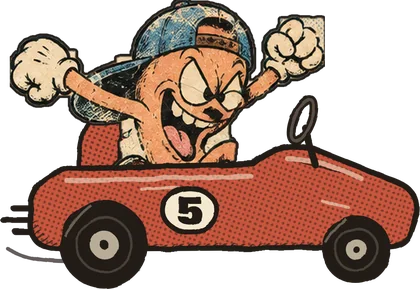
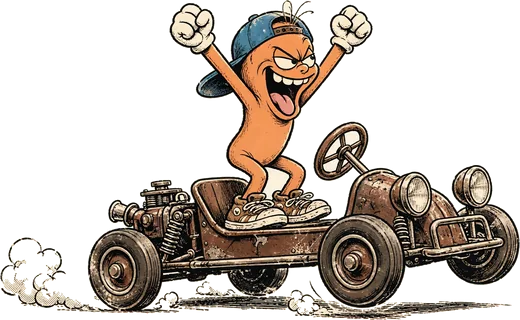
Use new hand-inked kart art for all five drivers
Claude-Session: https://claude.ai/code/session_01G79NAC6RiZUqHQqi2hMpF2

diff --git a/thumbrally/index.html b/thumbrally/index.html
@@ -15,7 +15,7 @@
 <link rel="preconnect" href="https://fonts.googleapis.com">
 <link rel="preconnect" href="https://fonts.gstatic.com" crossorigin>
 <link rel="stylesheet" href="https://fonts.googleapis.com/css2?family=Bowlby+One&family=Shantell+Sans:wght@400;600;800&display=swap">
-<link rel="preload" as="image" href="img/kart-thumbs.webp">
+<link rel="preload" as="image" href="img/kart-thumbs.webp"><link rel="preload" as="image" href="img/kart-pops.webp"><link rel="preload" as="image" href="img/kart-birdie.webp"><link rel="preload" as="image" href="img/kart-sir.webp"><link rel="preload" as="image" href="img/kart-lil.webp">
 <style>
 :root{
   --paper:#EEDBB8;--paper2:#E4CB9E;--card:#FBF1DD;--ink:#211C18;--ink2:#6A5B48;
@@ -97,7 +97,7 @@ svg.defs{position:absolute;width:0;height:0}
 .lane .nm{position:absolute;right:22px;top:50%;transform:translateY(-50%);font-size:10px;font-weight:800;color:var(--ink2);text-transform:uppercase;white-space:nowrap;opacity:.8}
 .lane.me{background:rgba(217,169,58,.22)}
 .lane.me .nm{color:var(--ink);opacity:1}
-.kart{position:absolute;left:2px;bottom:1px;height:calc(var(--laneH,46px) - 2px);will-change:transform;z-index:2}
+.kart{position:absolute;left:2px;bottom:-1px;height:calc(var(--laneH,46px) + 8px);will-change:transform;z-index:2}
 .kart img{height:100%;width:auto;transform-origin:30% 90%}
 .kart.run img{animation:bump .14s ease-in-out infinite alternate}
 .kart .puff{position:absolute;left:-6px;bottom:2px;width:14px;height:14px;border-radius:50%;background:#E8D4AE;border:2px solid var(--ink);opacity:0}
@@ -136,7 +136,7 @@ svg.defs{position:absolute;width:0;height:0}
 #res.show{transform:none}
 #res>*{flex:none}
 .react{display:flex;align-items:center;gap:6px;min-height:130px}
-.react img{width:122px;flex:none;transform:rotate(-3deg)}
+.react img{width:150px;flex:none;transform:rotate(-3deg)}
 .react.shake img{animation:wob .5s ease-in-out 2}
 @keyframes wob{25%{transform:rotate(-8deg)}75%{transform:rotate(4deg)}}
 .say{position:relative;flex:1;padding:16px 16px;font-weight:800;font-size:14px;text-transform:uppercase;line-height:1.2;text-align:center;background:var(--card);border-radius:50%/42%}
@@ -238,7 +238,7 @@ const GANG={
 };
 const IDS=Object.keys(GANG);
 if(!GANG[S.driver])S.driver='thumbs';
-const kartSrc=id=>`img/kart-${id}.webp`, faceSrc=id=>`img/face-${id}.webp`;
+const kartSrc=id=>`img/kart-${id}.webp`, faceSrc=id=>`img/big-${id}.webp`;
 const BOT={thumbs:{m:1.02,noise:.35},pops:{m:.94,noise:.12},birdie:{m:1.0,noise:.5},sir:{m:.86,noise:.22},lil:{m:1.1,noise:.65}};
 const TALK={
   thumbs:{win:['FIRST. obviously. did everyone see that?','they should name a highway after me'],close:['so close i can taste the trophy'],lose:['the helmet was too tight. that is the only reason.'],pb:['NEW PERSONAL BEST. frame it.'],beat:['you got beat by a THUMB. on purpose.']},
@@ -288,11 +288,11 @@ function startRace(mode){
     R.rows.forEach(r=>r.el.classList.add('run'));setTimeout(()=>c.classList.add('hidden'),450);requestAnimationFrame(loop)}},700);
 }
 function pickPractice(){let pool=PASS.map((t,i)=>i).filter(i=>!S.recent.includes(i));if(!pool.length)pool=PASS.map((t,i)=>i);const i=pick(pool);S.recent=[i,...S.recent].slice(0,15);save();return PASS[i]}
-let trackW=300,kartW=66;
+let trackFull=300;
 function layoutTrack(){const t=$('#track'),w=t.clientWidth;
   const vh=(window.visualViewport?visualViewport.height:innerHeight);const laneH=Math.max(34,Math.min(48,Math.floor((vh-250)/5)));
-  t.style.setProperty('--laneH',laneH+'px');kartW=Math.round((laneH-2)*1.52);if(w>0)trackW=w-kartW-18;place()}
-function place(){if(!R)return;const T=R.text.length;R.rows.forEach((r,k)=>{const f=r.me?(R.committed+R.good)/T:R.bots[k-1].pos/T;r.el.style.transform=`translateX(${Math.min(1,f)*trackW}px)`;
+  t.style.setProperty('--laneH',laneH+'px');if(w>0)trackFull=w;place()}
+function place(){if(!R)return;const T=R.text.length;R.rows.forEach((r,k)=>{const f=r.me?(R.committed+R.good)/T:R.bots[k-1].pos/T;const kw=r.el.offsetWidth||60;r.el.style.transform=`translateX(${Math.min(1,f)*(trackFull-kw-18)}px)`;
   if((r.me?R.state==='done':R.bots[k-1].fin!=null))r.el.classList.remove('run')})}
 function sputter(){const el=R.rows[0].el;el.classList.remove('sputter');void el.offsetWidth;el.classList.add('sputter');const s=$('#sfx');s.textContent=pick(['Sputter!','Clunk!','Oops!','Bonk!']);s.classList.remove('show');void s.offsetWidth;s.classList.add('show')}
 inp.addEventListener('input',e=>{
@@ -344,7 +344,7 @@ function finish(){R.state='done';R.t=(performance.now()-R.t0)/1000;lastF=0;const
   const field=[{id:R.me,name:'You',fin:R.t,wpm,me:1},...R.bots.map(b=>({id:b.id,name:GANG[b.id].name,fin:b.fin,wpm:Math.round(b.wpm)}))].sort((x,y)=>x.fin-y.fin);
   $('#rBoard').innerHTML='<span class="lbl">Results</span>'+field.map((f,i)=>`<div class="brow${f.me?' me':''}"><span class="n">${i+1}</span><img src="${kartSrc(f.id)}" alt=""><span>${f.name}</span><span class="w">${f.wpm} wpm</span></div>`).join('');
   R.card={mode:R.mode,no:dayNum(),place:pl,wpm,acc:a,driver:R.me};
-  $('#rCard').innerHTML=`<span class="logo">Thumb Rally</span><small>${R.mode==='daily'?'Track no. '+dayNum():'Practice race'}</small><img src="${kartSrc(R.me)}" alt=""><div class="big">${pl}${sfx(pl)}!<br>${wpm} wpm</div><small>${a}% accuracy<br>terekim.github.io/thumbrally</small>`;
+  $('#rCard').innerHTML=`<span class="logo">Thumb Rally</span><small>${R.mode==='daily'?'Track no. '+dayNum():'Practice race'}</small><img src="${faceSrc(R.me)}" alt=""><div class="big">${pl}${sfx(pl)}!<br>${wpm} wpm</div><small>${a}% accuracy<br>terekim.github.io/thumbrally</small>`;
   setTimeout(()=>{inp.blur();$('#res').scrollTop=0;$('#res').classList.add('show')},800)}
 
 const loadImg=src=>new Promise((ok,no)=>{const i=new Image();i.onload=()=>ok(i);i.onerror=no;i.src=src});
@@ -358,7 +358,7 @@ async function cardBlob(c){
     x.fillStyle='#211C18';x.fillText(t,size*.06,size*.06);x.strokeStyle='#211C18';x.lineWidth=size*.09;x.strokeText(t,0,0);x.fillStyle=fill;x.fillText(t,0,0);x.restore()};
   outlined('THUMB RALLY',W/2,210,118,'#FBF1DD',-.05);
   x.font='800 40px "Shantell Sans", sans-serif';x.fillStyle='#FBF1DD';x.textAlign='center';x.fillText((c.mode==='daily'?'TRACK NO. '+c.no:'PRACTICE RACE'),W/2,300);
-  try{const k=await loadImg(kartSrc(c.driver));const kw=940,kh=kw*k.height/k.width;x.save();x.translate(W/2,760);x.rotate(-.04);x.drawImage(k,-kw/2,-kh/2,kw,kh);x.restore()}catch(e){}
+  try{const k=await loadImg(faceSrc(c.driver));const kw=Math.min(980,600*k.width/k.height),kh=kw*k.height/k.width;x.save();x.translate(W/2,730);x.rotate(-.04);x.drawImage(k,-kw/2,-kh/2,kw,kh);x.restore()}catch(e){}
   outlined(`${c.place}${sfx(c.place).toUpperCase()}!`,W/2,1290,250,'#FBF1DD',-.04);
   outlined(`${c.wpm} WPM`,W/2,1530,170,'#D9A93A',-.03);
   x.font='800 44px "Shantell Sans", sans-serif';x.fillStyle='#FBF1DD';x.fillText(`${c.acc}% ACCURACY`,W/2,1650);
